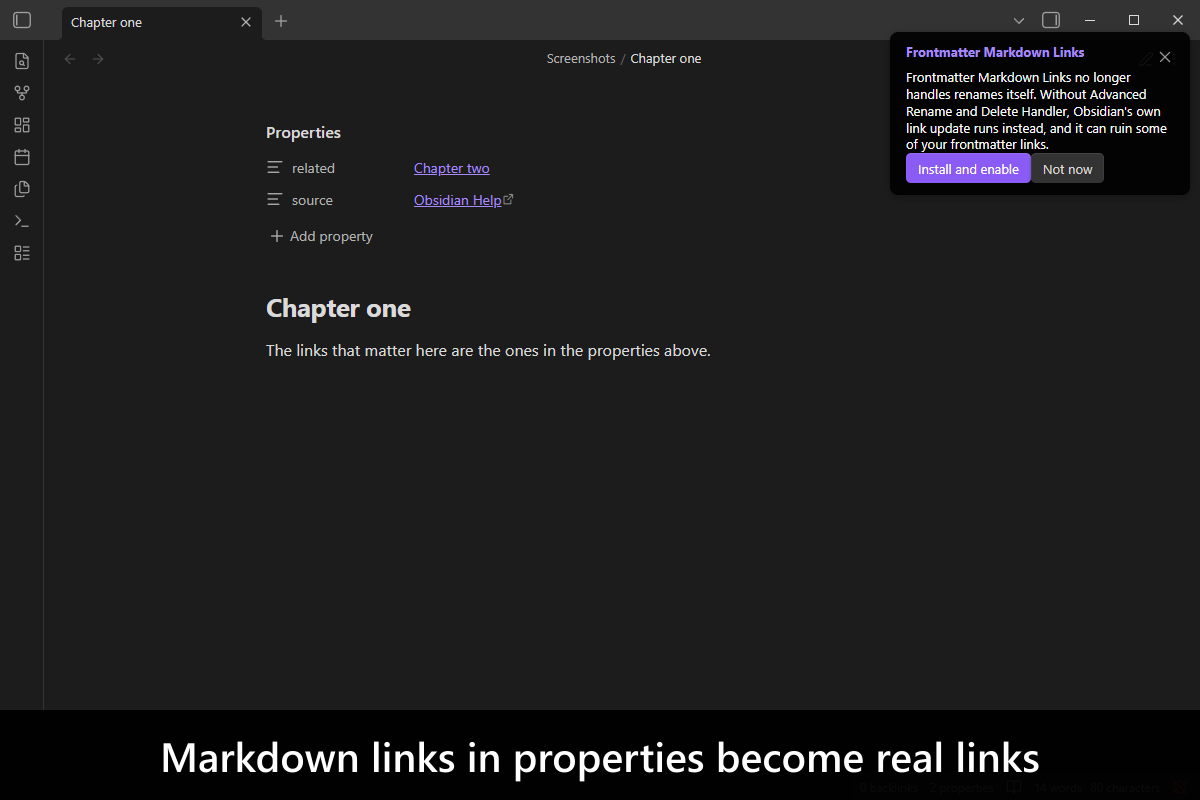
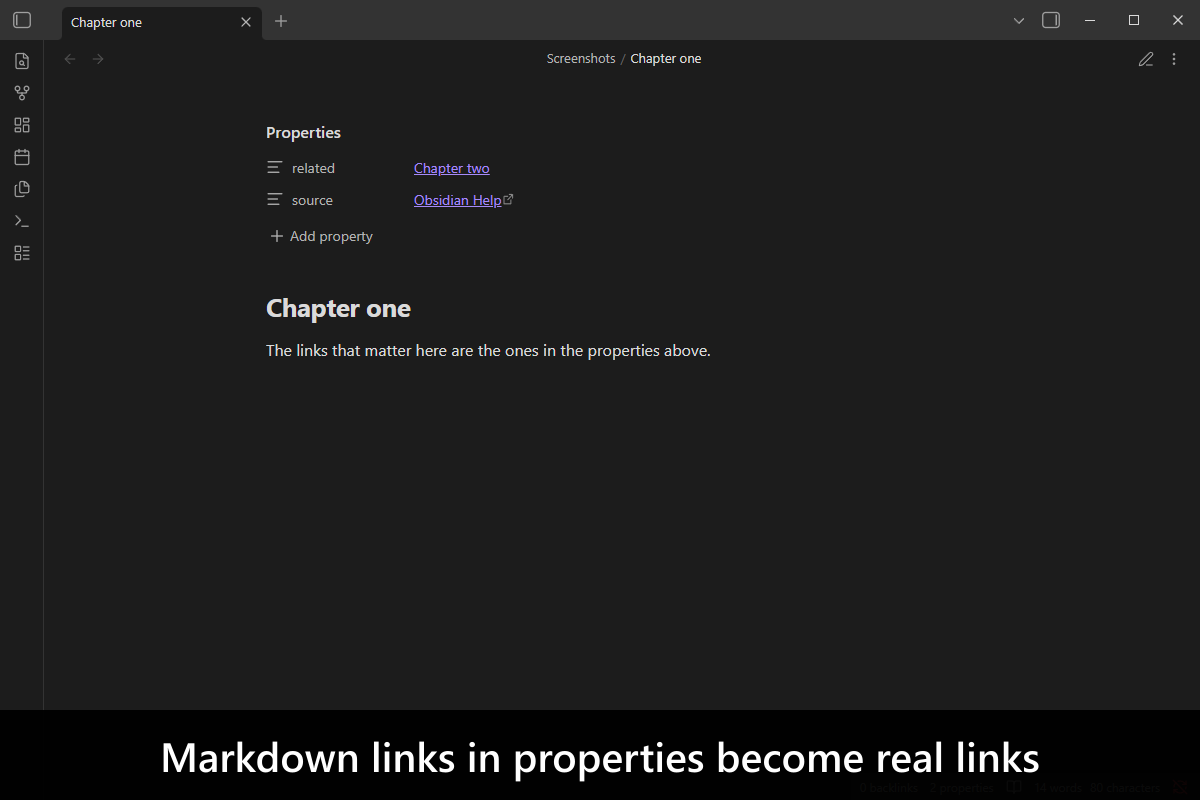
docs(screenshots): clear the notices from every frame, not just the settings one
The suggestion notice carries buttons, so it waits for an answer rather than
timing out — which put it in the corner of the property and backlink frames too,
talking over the subject each of them is captioned for. Move the dismissal into
`shoot`, so it applies to all three.

Refs T711-P18

Changed region(s): [[0.74, 0.0312, 1.0, 0.25]]

diff --git a/src/screenshots.android-capture.integration.test.ts b/src/screenshots.android-capture.integration.test.ts
@@ -152,7 +152,6 @@ describe('mobile store screenshots', () => {
     // Since 3.0.0 — that row is deliberately unnamed, so the named toggle is what
     // There is to assert on here.
     expect(names).toContain('Should show initialization notice');
-    await dismissNotices();
     await shoot(3, 'Rename handling now lives in a companion plugin');
   });
 });
@@ -172,11 +171,12 @@ function buildSourceNote(): string {
 }
 
 /**
- * Clears the notices floating over the settings modal before the frame is taken.
+ * Clears the floating notices before a frame is taken.
  *
- * The suggestion is surfaced twice on purpose — a notice on load and a banner in this tab — and on a fresh
- * profile both are on screen at once, with the notice sitting on top of the banner it duplicates. That reads
- * as a rendering fault rather than as two deliberate placements, so the frame shows the banner alone.
+ * Every shot wants the subject, not the plugin talking over it. The suggestion notice in particular is
+ * persistent — it carries buttons, so it waits for an answer rather than timing out — and in the settings
+ * frame it lands on top of the banner it duplicates, which reads as a rendering fault rather than as the two
+ * deliberate placements it is.
  */
 async function dismissNotices(): Promise<void> {
   await evalInObsidian({
@@ -291,6 +291,8 @@ async function openNoteAndReadProperty(path: string): Promise<unknown> {
  * @param caption - The caption drawn across the bottom of the frame.
  */
 async function shoot(index: number, caption: string): Promise<void> {
+  await dismissNotices();
+
   const captured = await captureObsidianScreenshot({ vaultPath: vaultPath() });
 
   // The AVD is 900x1600, so the device frame IS the store size. Asserting it

diff --git a/src/screenshots.desktop-capture.integration.test.ts b/src/screenshots.desktop-capture.integration.test.ts
@@ -152,7 +152,6 @@ describe('desktop store screenshots', () => {
     // Since 3.0.0 — that row is deliberately unnamed, so the named toggle is what
     // There is to assert on here.
     expect(names).toContain('Should show initialization notice');
-    await dismissNotices();
     await shoot(3, 'Rename handling now lives in a companion plugin');
   });
 });
@@ -172,11 +171,12 @@ function buildSourceNote(): string {
 }
 
 /**
- * Clears the notices floating over the settings modal before the frame is taken.
+ * Clears the floating notices before a frame is taken.
  *
- * The suggestion is surfaced twice on purpose — a notice on load and a banner in this tab — and on a fresh
- * profile both are on screen at once, with the notice sitting on top of the banner it duplicates. That reads
- * as a rendering fault rather than as two deliberate placements, so the frame shows the banner alone.
+ * Every shot wants the subject, not the plugin talking over it. The suggestion notice in particular is
+ * persistent — it carries buttons, so it waits for an answer rather than timing out — and in the settings
+ * frame it lands on top of the banner it duplicates, which reads as a rendering fault rather than as the two
+ * deliberate placements it is.
  */
 async function dismissNotices(): Promise<void> {
   await evalInObsidian({
@@ -297,6 +297,8 @@ async function openNoteAndReadProperty(path: string): Promise<unknown> {
  * @param caption - The caption drawn across the bottom of the frame.
  */
 async function shoot(index: number, caption: string): Promise<void> {
+  await dismissNotices();
+
   const bytes = await captureObsidianScreenshot({
     heightInPixels: HEIGHT_IN_PIXELS,
     vaultPath: vaultPath(),
